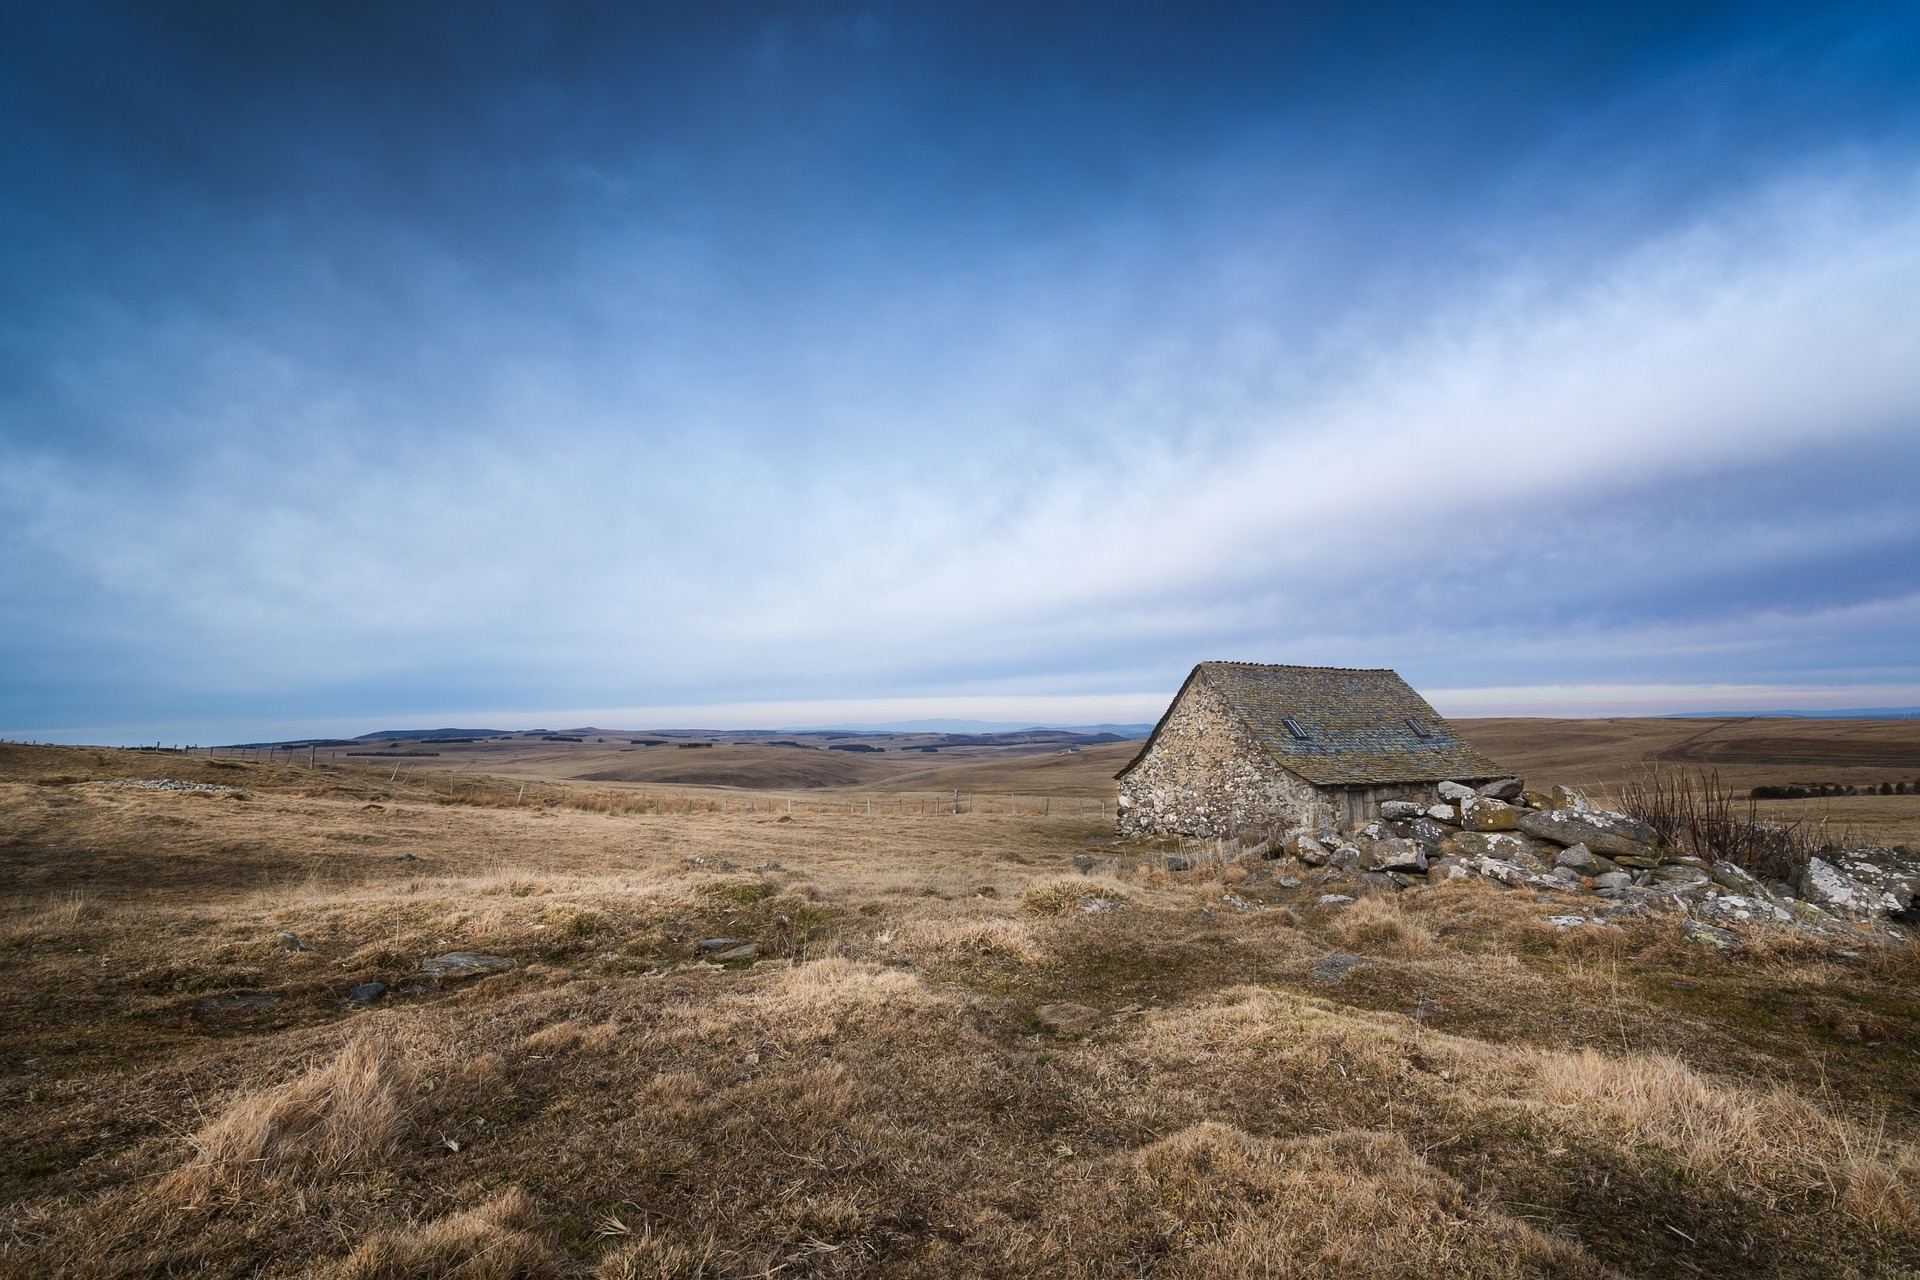
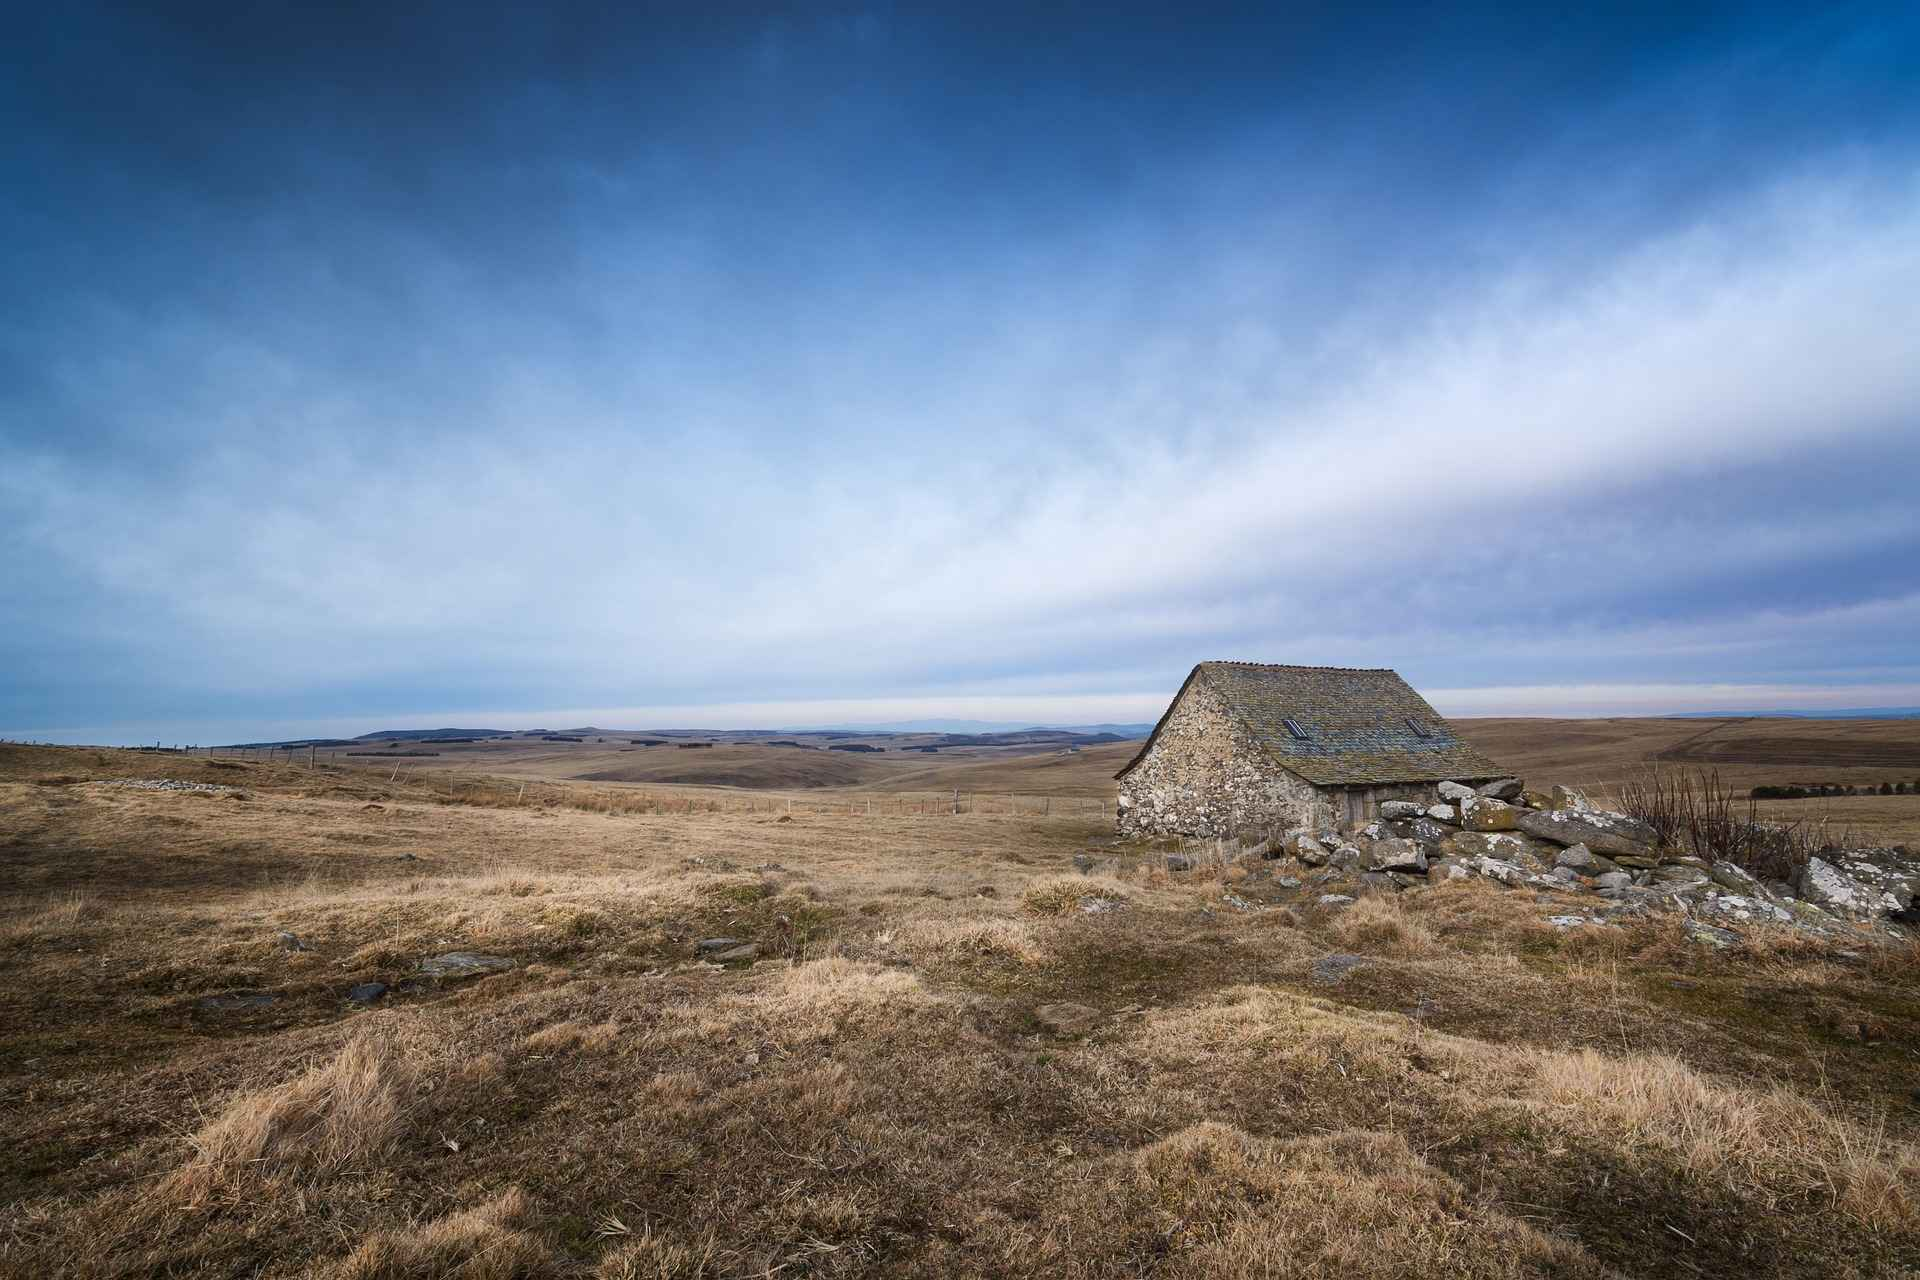
Update img

diff --git a/hoplan-2025.html b/hoplan-2025.html
@@ -335,8 +335,8 @@
 											
 											<div class="tt-image tti-border-radius tti-landscape margin-bottom-40">
 												<figure>
-													<a href="assets/img/hoplan-2025-1.png" class="tt-image-link" data-cursor="View" data-fancybox="gallery-746091" data-caption="Image caption">
-														<img src="/assets/img/hoplan-2025-1.png" class="tt-anim-zoomin" loading="lazy" alt="Image">
+													<a href="assets/img/hoplan-2025-1.jpg" class="tt-image-link" data-cursor="View" data-fancybox="gallery-746091" data-caption="Image caption">
+														<img src="/assets/img/hoplan-2025-1.jpg" class="tt-anim-zoomin" loading="lazy" alt="Image">
 													</a> 
 													<figcaption>
     Équipe Valorant
@@ -455,7 +455,7 @@
 											<a href="gamers-assembly-2024.html" class="tt-npi-image" data-cursor="GA 2024">
 												<figure class="tt-npi-image-inner">
 													
-													<img src="assets/img/gamers-assembly-2024.png" class="tt-anim-zoomin" loading="lazy" alt="Image">
+													<img src="assets/img/gamers-assembly-2024.jpg" class="tt-anim-zoomin" loading="lazy" alt="Image">
 												</figure>
 											</a>
 											<div class="tt-npi-caption">

diff --git a/gamers-assembly-2024.html b/gamers-assembly-2024.html
@@ -199,7 +199,7 @@
 
 					<div class="ph-image ph-image-cover-2">
 						<div class="ph-image-inner">
-							<img src="assets/img/gamers-assembly-2024.png" alt="Image">
+							<img src="assets/img/gamers-assembly-2024.jpg" alt="Image">
 						</div>
 					</div>
 					
@@ -331,8 +331,8 @@
 											
 											<div class="tt-image tti-border-radius tti-landscape margin-bottom-40">
 												<figure>
-													<a href="assets/img/gamers-assembly-2024.png" class="tt-image-link" data-cursor="View" data-fancybox="gallery-746091" data-caption="Image caption">
-														<img src="/assets/img/gamers-assembly-2024.png" class="tt-anim-zoomin" loading="lazy" alt="Image">
+													<a href="assets/img/gamers-assembly-2024.jpg" class="tt-image-link" data-cursor="View" data-fancybox="gallery-746091" data-caption="Image caption">
+														<img src="/assets/img/gamers-assembly-2024.jpg" class="tt-anim-zoomin" loading="lazy" alt="Image">
 													</a> 
 													<figcaption>
     Équipe Valorant

diff --git a/index.html b/index.html
@@ -850,7 +850,7 @@
 											style="text-decoration: none; color: inherit;">
 											<div class="tt-shs-item-inner">
 												<figure class="tt-shs-item-image">
-													<img src="assets/img/gamers-assembly-2024.png"
+													<img src="assets/img/gamers-assembly-2024.jpg"
 														class="tt-anim-zoomin" loading="lazy" alt="Image">
 													<figcaption>
 														Gamers Assembly Valorant 2024
